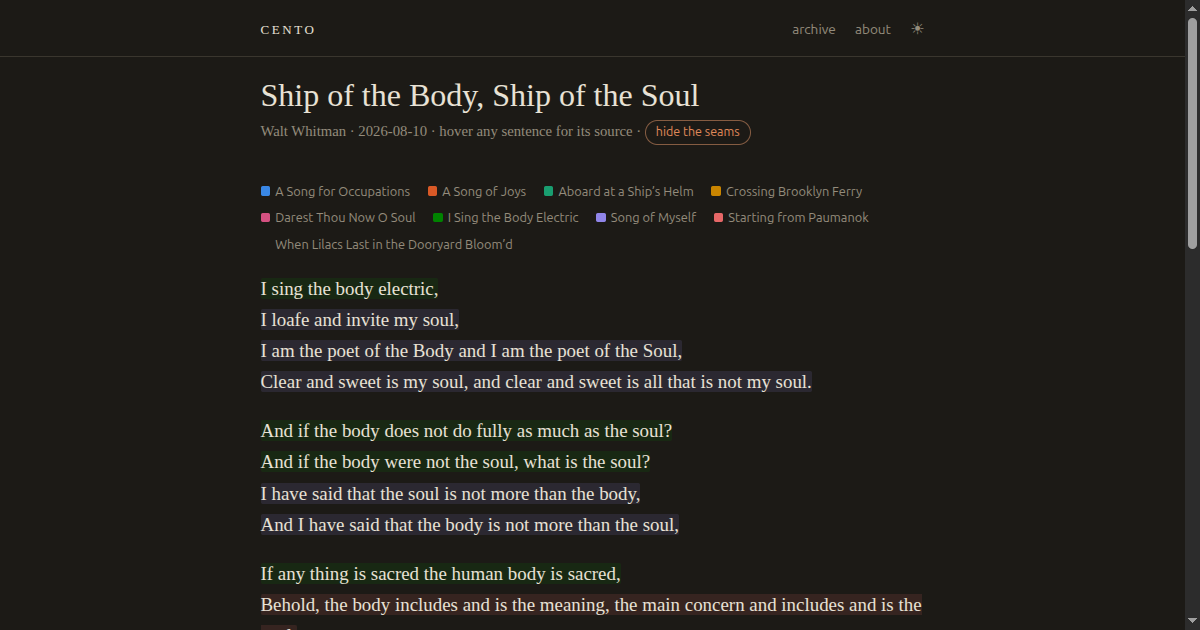
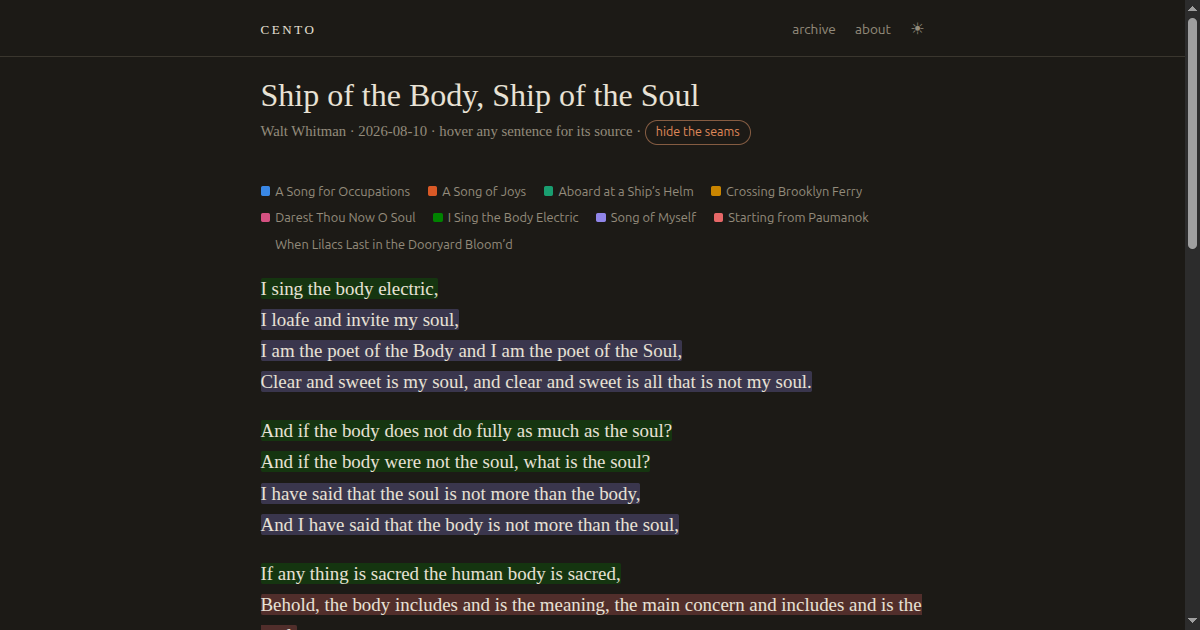
dark seams stronger (26% vs 13% light), shorter list meta, new card

Changed region(s): [[0.2158, 0.4825, 0.6783, 0.6333], [0.2158, 0.754, 0.5858, 0.8746], [0.2158, 0.9349, 0.7708, 1.0]]

diff --git a/site/style.css b/site/style.css
@@ -8,6 +8,7 @@
    surface — do not reorder or cycle the w-slots. */
 :root {
   color-scheme: dark;
+  --seam: 26%;                 /* washes read dimmer on a dark ground */
   --paper: #1c1a16;
   --ink: #e8e2d5;
   --muted: #948c7c;
@@ -26,6 +27,7 @@
 }
 :root[data-theme="light"] {
   color-scheme: light;
+  --seam: 13%;
   --paper: #faf7f0;
   --ink: #26221c;
   --muted: #7a7264;
@@ -281,7 +283,7 @@ label.seams:hover { background: color-mix(in srgb, var(--accent) 10%, transparen
 #seams:checked ~ .piece .s.w8 { --sw: var(--w8); }
 /* subtle: a quiet wash in the work's color, nothing that reads as a link */
 #seams:checked ~ .piece .s[class*=" w"] {
-  background: color-mix(in srgb, var(--sw) 13%, transparent);
+  background: color-mix(in srgb, var(--sw) var(--seam), transparent);
 }
 /* hover/focus highlight must still win over the seam tints */
 #seams:checked ~ .piece .s:hover,

diff --git a/site/build.py b/site/build.py
@@ -320,8 +320,8 @@ def archive_page(all_texts, has_card):
             f'<li data-search="{esc(haystack)}">'
             f'<a href="{esc(author)}/{esc(slug)}.html">{esc(rec["title"])}</a>'
             f'<span class="meta">{esc(rec["author_name"])} &middot; '
-            f'{esc(rec["kind"])} &middot; gathered from {len(rec["works"])} '
-            f'works &middot; {esc(rec["created"])}</span></li>')
+            f'{esc(rec["kind"])} &middot; {len(rec["works"])} works '
+            f'&middot; {esc(rec["created"])}</span></li>')
     n = len(items)
     body = f"""<h1 class="piece-title">archive</h1>
 <input type="search" id="q" class="search" autocomplete="off"
@@ -358,8 +358,8 @@ def index_page(cfg, by_author, latest, has_card, label="the latest piece"):
             items.append(
                 f'<li><a href="{esc(author)}/{esc(slug)}.html">'
                 f'{esc(rec["title"])}</a>'
-                f'<span class="meta">{esc(rec["kind"])} &middot; gathered '
-                f'from {len(rec["works"])} works &middot; '
+                f'<span class="meta">{esc(rec["kind"])} &middot; '
+                f'{len(rec["works"])} works &middot; '
                 f'{esc(rec["created"])}</span></li>')
         if items:
             sections.append(f'<h2 class="author">{esc(meta["name"])}</h2>\n'
